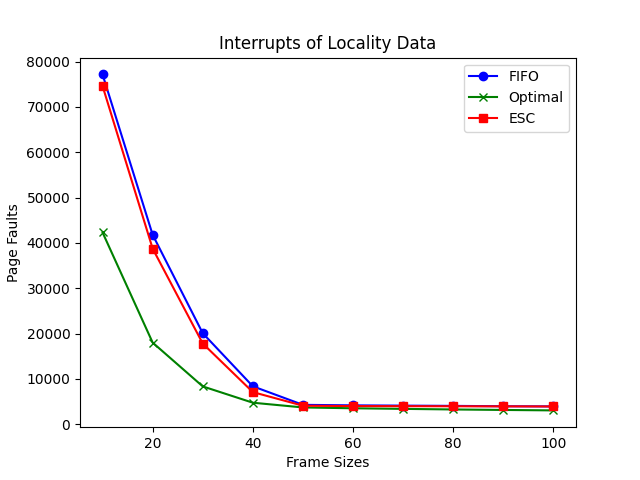
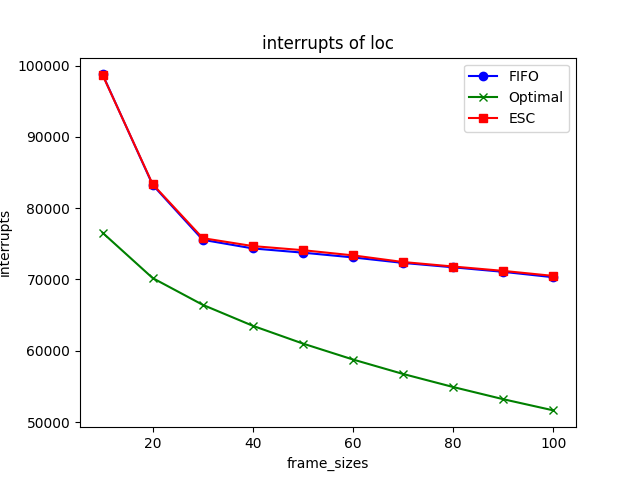
Updated city information

diff --git a/plt.py b/plt.py
@@ -1,20 +1,25 @@
 import pandas as pd
 import matplotlib.pyplot as plt
 
-df1 = pd.read_csv('fifodata/fifocyc.csv')  
-df2 = pd.read_csv('optdata/optcyc.csv')  
-df3 = pd.read_csv('excdata/exccyc.csv')   
 
-plt.plot(df1['frame_sizes'], df1['disk_writes'], label="FIFO", color='blue', marker='o')
-plt.plot(df2['frame_sizes'], df2['disk_writes'], label="Optimal", color='green', marker='x')
-plt.plot(df3['frame_sizes'], df3['disk_writes'], label="ESC", color='red', marker='s')
+datas = ['ran','loc','cyc']
+results = ['page_faults', 'interrupts', 'disk_writes']
 
-plt.xlabel("Frame Sizes")
-plt.ylabel("Page Faults")
-plt.title("Disk Writes of Cyclic Data")
+for x in datas:
+    df1 = pd.read_csv('fifodata/fifocyc.csv')  
+    df2 = pd.read_csv('optdata/optcyc.csv')  
+    df3 = pd.read_csv('excdata/exccyc.csv')  
+    for y in results:
+        plt.plot(df1['frame_sizes'], df1[f'{y}'], label="FIFO", color='blue', marker='o')
+        plt.plot(df2['frame_sizes'], df2[f'{y}'], label="Optimal", color='green', marker='x')
+        plt.plot(df3['frame_sizes'], df3[f'{y}'], label="ESC", color='red', marker='s')
 
-plt.legend()
+        plt.xlabel("frame_sizes")
+        plt.ylabel(f"{y}")
+        plt.title(f"{y} of {x}")
 
-plt.savefig('resultplt/writes_cyc.png')
+        plt.legend()
 
-plt.show()
+        plt.savefig(f'resultplt/{y}_{x}.png')
+
+        plt.show()

diff --git a/test.py b/test.py
@@ -1,3 +1,3 @@
-for x in range(0,3):
-    for y in range(0,3):
-        print(x,y)
+results = ['page_faults', 'interrupts', 'disk_writes']
+for x in results:
+    print(x, type(x))
